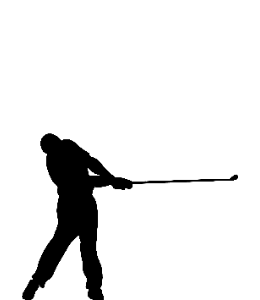
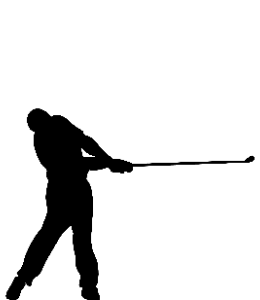
아이언 아이콘 15% 확대 — 클럽 헤드까지 그대로 유지
가로 기준 0.833 → 0.958. 캔버스(260x300) 가로의 96% 라 헤드가 잘리지 않아
캔버스를 넓히지 않았다. 실제 렌더링 픽셀로 확인 — 아이언 52x40 → 58x46.

더 키워야 하면 CANVAS_W 를 늘리고 나머지 세 개의 h 값도 같은 비율로 낮춰야
서로의 크기 관계가 유지된다. 도구 주석에 적어뒀다.

Claude-Session: https://claude.ai/code/session_01NFSBRwy8mpDDhGYjXUnCJN

Changed region(s): [[0.0, 0.36, 0.9846, 1.0]]

diff --git a/tools/build_club_icons.js b/tools/build_club_icons.js
@@ -30,7 +30,11 @@ const CANVAS_W = 260, CANVAS_H = 300;
    CSS 아이콘 상자도 52x60 → 62x72 로 함께 키웠다. */
 const FIT = {
   golfer: { file: 'golfer.png', h: 0.689 },   // 드라이버
-  iron:   { file: 'iron.jpg',   w: 0.833 },   // 클럽이 옆으로 길어 가로 기준 — 헤드까지 전부 담긴다
+  // 아이언은 클럽이 옆으로 길어 가로 기준으로 맞춘다 — 헤드까지 전부 담긴다.
+  // 0.833 → 0.958 (+15%, 사장님 지시). 캔버스 가로의 96% 라 아직 여유가 있어
+  // 캔버스를 넓히지 않았다. 더 키워야 하면 CANVAS_W 를 늘리고 나머지 세 개의
+  // h 값도 같은 비율로 낮춰야 서로의 크기 관계가 유지된다.
+  iron:   { file: 'iron.jpg',   w: 0.958 },
   wedge:  { file: 'wedge.jpg',  h: 1.00 },
   putter: { file: 'putter.jpg', h: 0.566 },
 };
